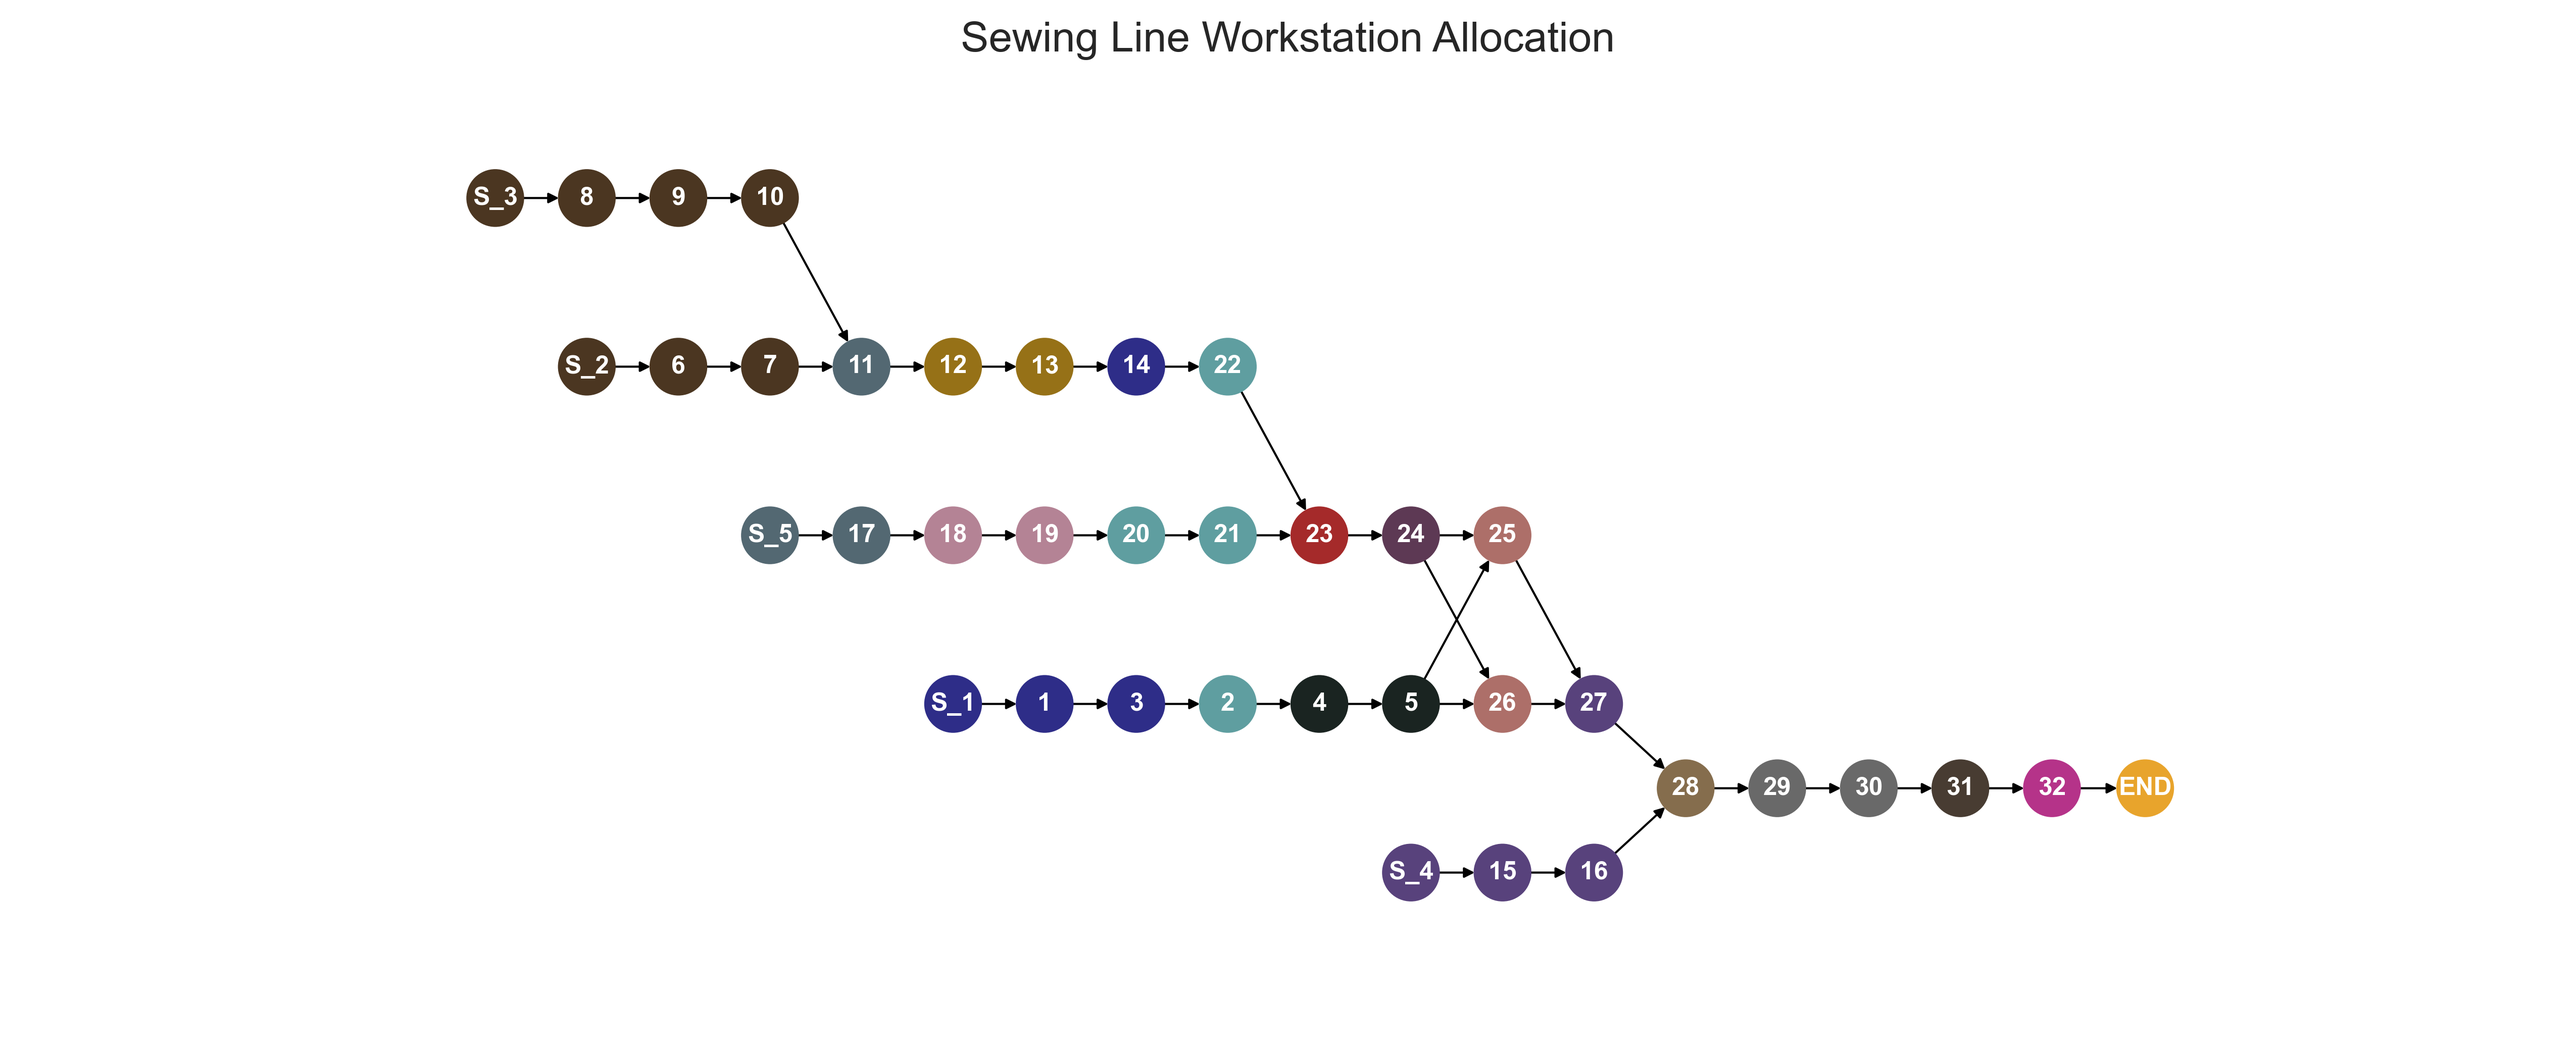
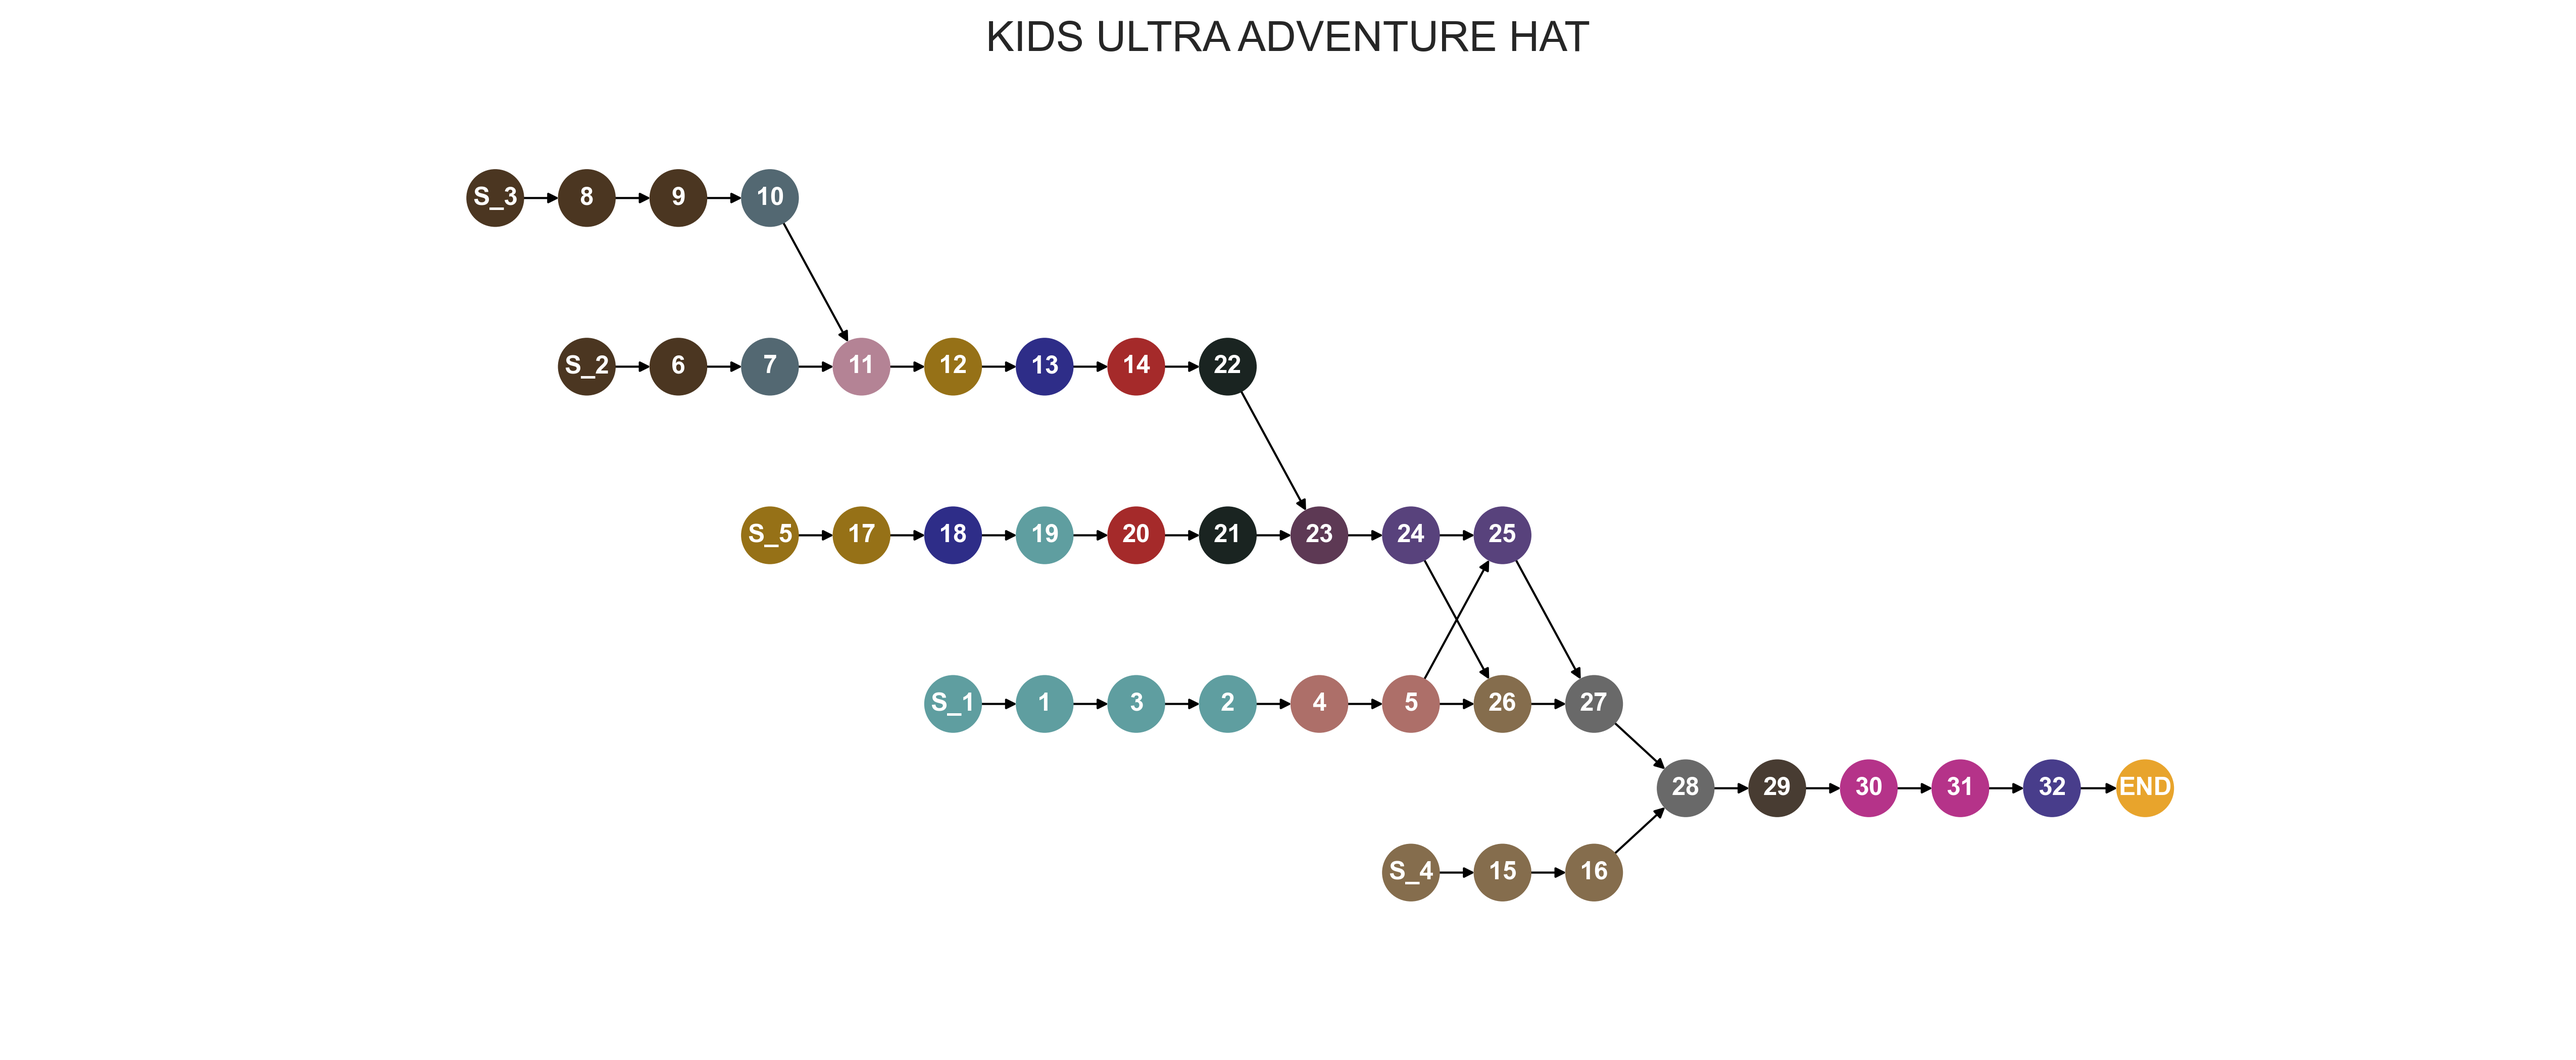
Fix streamlit

diff --git a/style.css b/style.css
@@ -1,0 +1,8 @@
+body {
+    background-color: #eee;
+}
+
+.fullScreenFrame > div {
+    display: flex;
+    justify-content: center;
+}

diff --git a/sw_SE.py b/sw_SE.py
@@ -6,53 +6,88 @@ import matplotlib.pyplot as plt
 from torch import layout
 import os
 os.environ["KMP_DUPLICATE_LIB_OK"]="TRUE"
+from PIL import Image
 
 
-st.set_page_config(page_title="Sales Dashboard", page_icon=":bar_chart:" , layout="wide")
+st.set_page_config(page_title="Line balance TTD", page_icon=":bar_chart:" , layout="wide")
 st.set_option('deprecation.showfileUploaderEncoding', False)
 
-st.title("Import Data")
+def center_image(name):
+    col1, col2, col3 = st.columns([5,8,4])
+    with col1:
+        st.write("")
+
+    with col2:
+        st.image(name)
+
+    with col3:
+        st.write("")
+
+
+st.markdown("<h1 style='text-align: center; color: black;'>Line Balance Tan Thanh Dat Co. ltd</h1>", unsafe_allow_html=True)
+
+st.markdown('##')
+
+center_image('ttd.png')
+st.markdown('##')
+
+st.title("Input data")
+
 
 #Add the sidebar
 
 uploaded_file = st.sidebar.file_uploader(label = "Upload your CSV or Excel file."
                                 , type = ['csv' , 'xlsx' , 'xlsm'])
 
-global df 
-if uploaded_file is not None: 
-    df = pd.read_excel(uploaded_file, sheet_name='hat5',skiprows=3,usecols='B:G' , nrows= 100)
-    df['Precedence'] = df['Precedence'].astype(str)
-    df['Task Description'] = df['Task Description'].astype(str)
-    df['Resource'] = df['Resource'].astype(str)
-# Get Input Numbers for Line Balancing and Simulation
+input_data = pd.read_excel(uploaded_file, sheet_name='hat4',skiprows=3,usecols='B:F')
+cycle_time = max(input_data['ST (Minutes)'])
+workstations = (input_data['ST (Minutes)']).count()
 
-input_data = pd.read_excel(uploaded_file, sheet_name='Input_Data_5',skiprows=3,usecols='B:C')
-cycle_time = input_data[input_data['Particulars'] == 'Cycle Time (Max of Takt Time Vs Bottleneck)']['Input'].tolist()[0]
-workstations = input_data[input_data['Particulars'] == 'Max Number of Workstations']['Input'].tolist()[0]
-takt_time = input_data[input_data['Particulars'] == 'Takt Time Desired in Minutes']['Input'].tolist()[0]
-style_name = input_data[input_data['Particulars'] == 'Style Name']['Input'].tolist()[0]
+placeholder1 = st.empty()
 
-st.title("Data visualization")
-st.table(df)
+with placeholder1.container():
+    # create three columns
+    kpi1, kpi2 , kpi3 = st.columns(3)
 
-# Plot dataframe 
-fig = px.line(df, x ='Task Number' , y ='ST (Minutes)', text = "ST (Minutes)" , title= "Data visualization" , width=1300, height= 800)
-fig.add_scatter(x=df['Task Number'], y= [cycle_time]*len(df['Task Number']) , name = "Cycle time max") 
-fig.update_traces(textposition="bottom right")
-st.plotly_chart(fig)
+    # fill in those three columns with respective metrics or KPIs 
+    kpi1.metric(label="Cycle time ⏳", value=float(cycle_time))
+    kpi2.metric(label="Workstations 💍", value= int((input_data['ST (Minutes)']).count()))
+    kpi3.metric(label="Sum product in 600 minutes", value= int((600/cycle_time)))
 
 
-# Plot dataframe 
-fig = px.bar(df, x ='Task Description' , y ='ST (Minutes)', width=1300, height= 800)
-fig.update_traces(textposition="auto")
-st.plotly_chart(fig)
+    st.markdown("### Detailed Data View")
+    global df 
+    if uploaded_file is not None: 
+        df = pd.read_excel(uploaded_file, sheet_name='hat4',skiprows=3,usecols='B:G' , nrows= 100)
+        df['Precedence'] = df['Precedence'].astype(str)
+        df['Task Description'] = df['Task Description'].astype(str)
+        df['Resource'] = df['Resource'].astype(str)
+    # Get Input Numbers for Line Balancing and Simulation
 
+    try:
+        st.table(df)
+    except Exception as e:
+        print(e)
+        st.write("Please upload file to the application")
 
-# Plot dataframe 
-# fig = px.line(df, x ='Task Number' , y ='No of Operators', text = "No of Operators" , width=1300, height= 800)
-# fig.update_traces(textposition="bottom right")
+placeholder2 = st.empty()
 
-# st.plotly_chart(fig)
+with placeholder2.container():
+
+    fig_col1, fig_col2 = st.columns(2)
+    with fig_col1:
+        st.markdown("### Line Chart Time Series")
+        fig = px.line(df, x ='Task Number' , y ='ST (Minutes)', text = "ST (Minutes)")
+        fig.add_scatter(x=df['Task Number'], y= [cycle_time]*len(df['Task Number']) , name = 'Cycle time') 
+        fig.update_traces(textposition="bottom right")
+        st.plotly_chart(fig , use_container_width=True)
+
+    with fig_col2:
+        st.markdown("### Bar Chart Time Series")
+        fig = px.bar(df, x ='Task Number' , y ='ST (Minutes)')
+        fig.update_traces(textposition="auto")
+        st.plotly_chart(fig)
+
 
 
 
@@ -115,7 +150,7 @@ node_colors = node_colors['Hex'].to_dict()
 # Functions for Line Balancing
 
 def import_data(file_path):
-    df = pd.read_excel(file_path,sheet_name='hat5',skiprows=3,usecols='B:G')
+    df = pd.read_excel(file_path,sheet_name='hat4',skiprows=3,usecols='B:G')
 
     # Manipulate the Line Details data to split multiple Predecessors to individual rows
     temp = pd.DataFrame(columns=['Task Number', 'Precedence'])
@@ -303,7 +338,7 @@ def rgb2hex(r,g,b):
 def generate_assembly_line(file_path, env, feasable_solution, Workstation, que, switch):
     
     workstation_data = dict(tuple(feasable_solution.groupby('Workstation')))
-    base = pd.read_excel(file_path,sheet_name='hat5',skiprows=3,usecols='B:G')
+    base = pd.read_excel(file_path,sheet_name='hat4',skiprows=3,usecols='B:G')
     
     assembly_line = []
     tasks = {}
@@ -744,7 +779,6 @@ class g:
     wip_data = pd.DataFrame(columns=['Process', 'Counter', 'Resource_Number', 'Enter_Time','Exit_Time','Que_Time'])
     
     cycle_data = pd.DataFrame(columns=['Time', 'CT'])
-    takt = takt_time
 
 class Assembly_Line:
     
@@ -756,7 +790,7 @@ class Assembly_Line:
         self.feasable_solution = feasable_solution
         self.Workstation = Workstation
         self.data = data
-        self.file = pd.read_excel(file_path,sheet_name='hat5',skiprows=3,usecols='B:F')
+        self.file = pd.read_excel(file_path,sheet_name='hat4',skiprows=3,usecols='B:F')
         self.unique_task = self.file['Task Number'].tolist()
         self.followers = self.data.groupby(['Next Task'])['Task Number'].count().to_dict()
         
@@ -821,7 +855,7 @@ def get_simulation_time(sim_min):
 def save_graph(data_set,workstation, shades):
     
     fig, ax = plt.subplots(figsize=(17, 7))
-    fig.suptitle('Sewing Line Workstation Allocation', fontsize=20)
+    fig.suptitle('KIDS ULTRA ADVENTURE HAT', fontsize=20)
     
     g = nx.DiGraph()
     
@@ -850,8 +884,9 @@ def save_graph(data_set,workstation, shades):
     
 save_graph(solution,workstations,node_colors)    
 
+# st.markdown('##LINE BALANCE')
+st.markdown("<h1 style='text-align: center; color: red;'>LINE BALANCE</h1>", unsafe_allow_html=True)
 
-from PIL import Image
 
 image = Image.open('Allocated_Ws_hat.png')
 new_image = image.resize((1400, 600))
@@ -863,10 +898,11 @@ for i in range(1 , max(solution['Workstation'])+1):
 wks = np.unique(solution['Workstation']).tolist()
 
 df_new = pd.DataFrame(data = {'Work' : wks , 'SumST': sumindex})
+
+
 # Plot dataframe 
-fig = px.line(df_new , x = 'Work' , y = 'SumST', text = "SumST" , title= "Data visualization" , width=1300, height= 800)
-fig.add_scatter(x= df_new['Work'], y= [cycle_time]*len(df['Task Number']) , name = "Cycle time max") 
-fig.update_traces(textposition="bottom right")
+fig = px.bar(df_new , x = 'Work' , y = 'SumST', text = "SumST" , width=1300, height= 800)
+fig.update_traces(textposition="auto")
 st.plotly_chart(fig)
 
 
@@ -876,10 +912,7 @@ for i in range(1 , max(solution['Workstation'])+1):
 wks = np.unique(solution['Workstation']).tolist()
 
 df_new = pd.DataFrame(data = {'Work' : wks , 'SumST': sumindex})
-# Plot dataframe 
-fig = px.line(df_new , x = 'Work' , y = 'SumST', text = "SumST" , title= "Data visualization" , width=1300, height= 800)
-fig.update_traces(textposition="bottom right")
-st.plotly_chart(fig)
+
 
 
 
@@ -898,7 +931,7 @@ st.plotly_chart(fig)
 
 class ClockAndData:
     def __init__(self, canvas, canvas_1, x1, y1, time, current_production, workstations, subplot_dict_p,
-                 subplot_dict_q, subplot_dict_w, subplot_dict_wip, cycle_time, allocation, position, ax_graph, takt_time, 
+                 subplot_dict_q, subplot_dict_w, subplot_dict_wip, cycle_time, allocation, position, ax_graph, 
                 ct_achieved):
         self.canvas = canvas
         self.canvas_1 = canvas_1
@@ -915,7 +948,6 @@ class ClockAndData:
         self.allocation = allocation
         self.position = position
         self.ax_graph = ax_graph
-        self.takt_time = takt_time
         self.ct_achieved = ct_achieved
         canvas_1.create_text(self.x1+500, self.y1, font=("Arial Narrow",16, 'bold'), text= "SEW-MULATOR ENGINE by Optimalytics Business Solutions",anchor=tk.NW, fill='white')
         
@@ -927,11 +959,8 @@ class ClockAndData:
                                        text = "Simulation Time : " + str(get_simulation_time(round(time, 1))), anchor = tk.NW,fill='#6C3400')
         
         
-        self.canvas.delete(self.takt_time)
         x2_start = x1_start + 400
-        self.takt_time = canvas.create_text(x2_start, self.y1, font=("Arial Narrow",14,'bold'), 
-                                            text = "Desired Cycle Time : " + str(round(g.takt,2)), anchor = tk.NW,fill='#6C3400')
-        
+
         self.canvas.delete(self.ct_achieved)
         x3_start = x2_start + 400
         achieved = round(g.cycle_data['CT'].mean(),2)
@@ -1136,7 +1165,6 @@ prec_f = plt.figure()
 prec_gs = GridSpec(1,1,figure=prec_f)
 prec_ax = plt.subplot(prec_gs.new_subplotspec((0,0)))
 prec_gs.update(left=0.02,right=0.98,top=0.9,bottom=0.1,wspace=0.2,hspace=0.01)
-prec_f.suptitle('Process Flow Diagram of '+ style_name, fontsize=20)
 prec_plot = FigureCanvasTkAgg(prec_f, master=main)
 prec_plot.get_tk_widget().config(width= main.winfo_screenwidth(),height = main.winfo_screenheight()*.5)
 prec_plot.get_tk_widget().pack(side=tk.TOP, fill=tk.BOTH, expand=True)
@@ -1255,7 +1283,7 @@ data_plot_3.get_tk_widget().pack(side=tk.TOP, fill=tk.BOTH, expand=True)
     
     
 clock = ClockAndData(canvas, company_name, (main.winfo_screenwidth()*.05)/2, (main.winfo_screenheight()*.05)/2, 0, 0, solution_workstations, subplot_dict_p,
-                    subplot_dict_q, subplot_dict_w, subplot_dict_wip, cycle_time, allocation, position, ax_graph, takt_time, 0)
+                    subplot_dict_q, subplot_dict_w, subplot_dict_wip, cycle_time, allocation, position, ax_graph, 0)
 
 
 # In[ ]:
